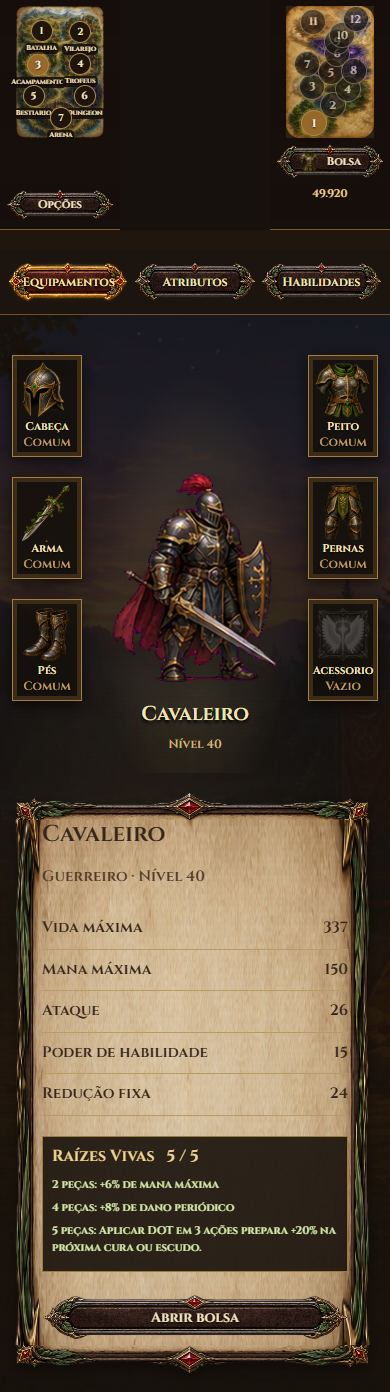
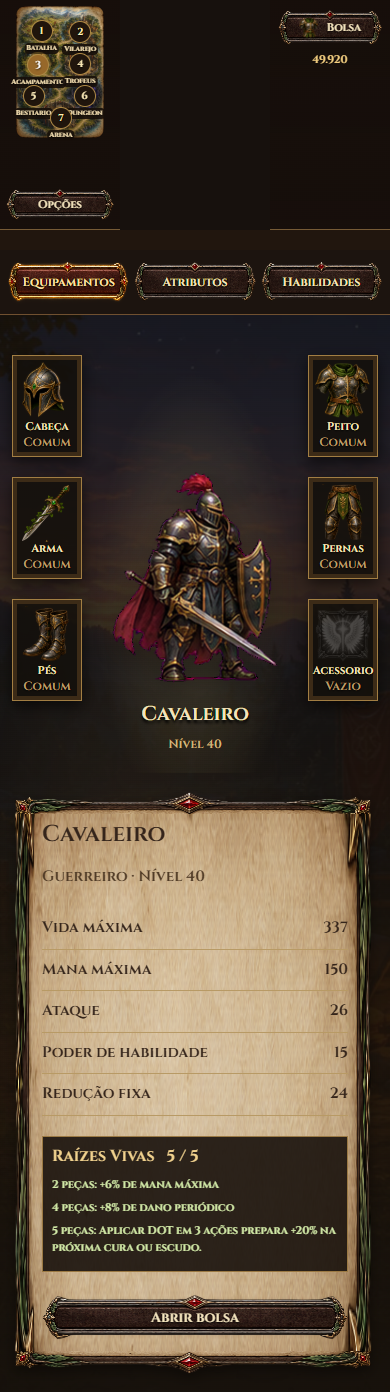
Corrige area util das molduras e limita mapa lateral ao combate

diff --git a/assets/styles/campaign-hud.css b/assets/styles/campaign-hud.css
@@ -358,3 +358,13 @@ body.rpg-campaign::before{content:"";position:fixed;inset:0;background:#080a08db
  .rpg-campaign #rpgMain{min-height:100dvh}
  .rpg-campaign #campaignHud[data-mode=battle] .rpg-battle .battle-scene{height:calc(100dvh - 191px)}
 }
+/* Decorative pixels must occupy the same space reserved by the CSS border. */
+.rpg-campaign button{border-image-width:1!important}
+.rpg-campaign :is(.rpg-paper,.rpg-quest){border-image-width:1!important}
+.rpg-campaign button.rpg-contract{border-width:22px 35px;border-image-width:1;padding:10px 14px;min-height:150px;justify-content:center;align-items:flex-start;text-align:left;overflow-wrap:break-word}
+.rpg-campaign .rpg-contract>:is(strong,span,small){display:block;max-width:100%;text-align:left;line-height:1.4}
+/* Keep travel on the combat screen; utility controls retain their own safe rail. */
+.rpg-campaign #campaignHud:not([data-mode=battle]) #regionInfo{display:none}
+.rpg-campaign #campaignHud:not([data-mode=battle]) .rpg-world-layout{grid-template-columns:clamp(170px,15vw,250px) minmax(0,1fr) 140px}
+.rpg-campaign #campaignHud:not([data-mode=battle]) .rpg-regions-rail{padding:8px}
+@media(max-width:1100px){.rpg-campaign #campaignHud:not([data-mode=battle]) .rpg-world-layout{grid-template-columns:120px minmax(0,1fr) 120px}}

diff --git a/index.html b/index.html
@@ -8,7 +8,7 @@
 <link rel="stylesheet" href="assets/styles/equipment.css?v=20261028" />
 <link rel="stylesheet" href="assets/styles/dungeon.css" />
 <link rel="preload" href="assets/visual/fonts/cinzel-variable.ttf" as="font" type="font/ttf" crossorigin />
-<link rel="stylesheet" href="assets/styles/campaign-hud.css?v=20261029-compact" />
+<link rel="stylesheet" href="assets/styles/campaign-hud.css?v=20261029-frames" />
 <link rel="stylesheet" href="assets/styles/campaign-typography.css?v=20261029-centered" />
 </head>
 <body class="rpg-campaign">
@@ -58,7 +58,7 @@
 <script src="assets/js/systems/page-navigation.js"></script>
 <script src="assets/js/systems/achievement-system.js?v=20261028"></script>
 <script src="assets/js/game.js?v=20261028"></script>
-<script src="assets/js/systems/campaign-hud.js?v=20261029-compact"></script>
+<script src="assets/js/systems/campaign-hud.js?v=20261029-frames"></script>
 <script src="assets/js/systems/dungeon-system.js"></script>
 </body>
 </html>

diff --git a/docs/hud/implementacao-rpg.md b/docs/hud/implementacao-rpg.md
@@ -4,6 +4,8 @@
 
 ## Estado atual: mapas nos cantos — 29/10/2026
 
+Correção das molduras: a área desenhada por `border-image` coincide com a borda reservada pelo layout, inclusive nos estados ativo/desabilitado e nas regras de celular. Cartões de contrato reservam 22 px verticais e 35 px laterais para a moldura, além do recuo de texto de 10/14 px. A auditoria verifica os trechos de texto dentro da borda e a largura das molduras nos botões visíveis. O mapa de regiões lateral aparece somente na tela de combate/exploração; o mapa de locais continua servindo à navegação. Nas outras telas, a lateral de bolsa/moedas ocupa menos largura.
+
 A faixa superior “Crônicas da campanha” foi retirada; a região continua indicada no mapa, e os pixels liberados passam à aventura. O estudo de escrita e tipografia está em `pesquisa-tipografia/index.html` e `pesquisa-tipografia/analise.md`. As variações de tipografia desse estudo são demonstrações e não são carregadas pelo jogo.
 
 A campanha ocupa toda a largura disponível: mapa dos locais à esquerda, aventura no centro e mapa das regiões à direita. O mapa dos locais usa os pontos da arte para navegar com as restrições reais do jogo. A antiga barra de navegação e o botão de abrir mapa foram removidos. Opções fica no pé da lateral esquerda; bolsa e moedas ficam abaixo do mapa das regiões.
